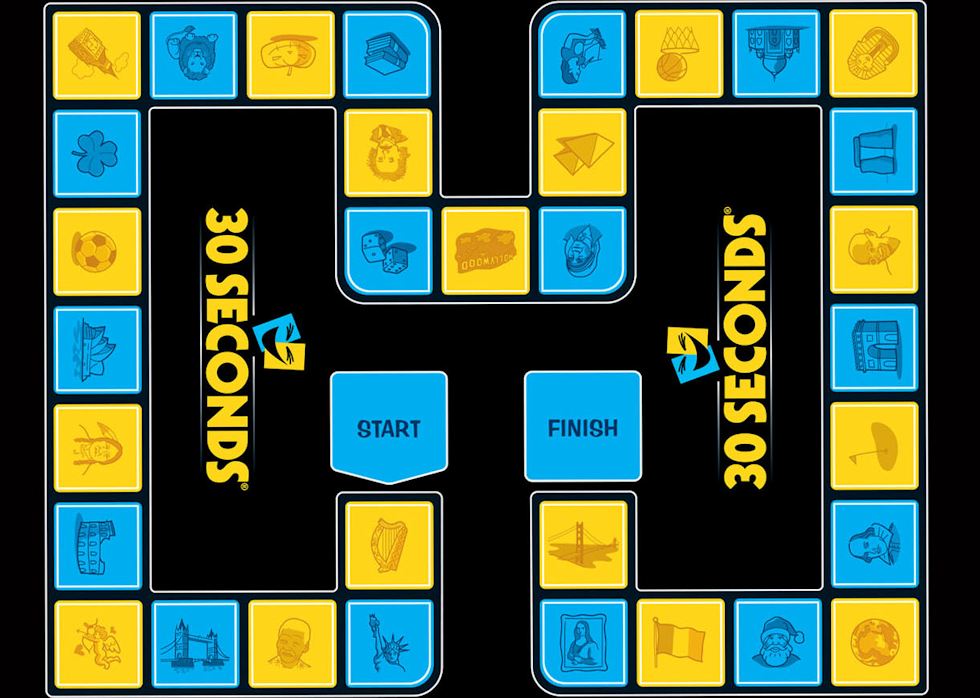
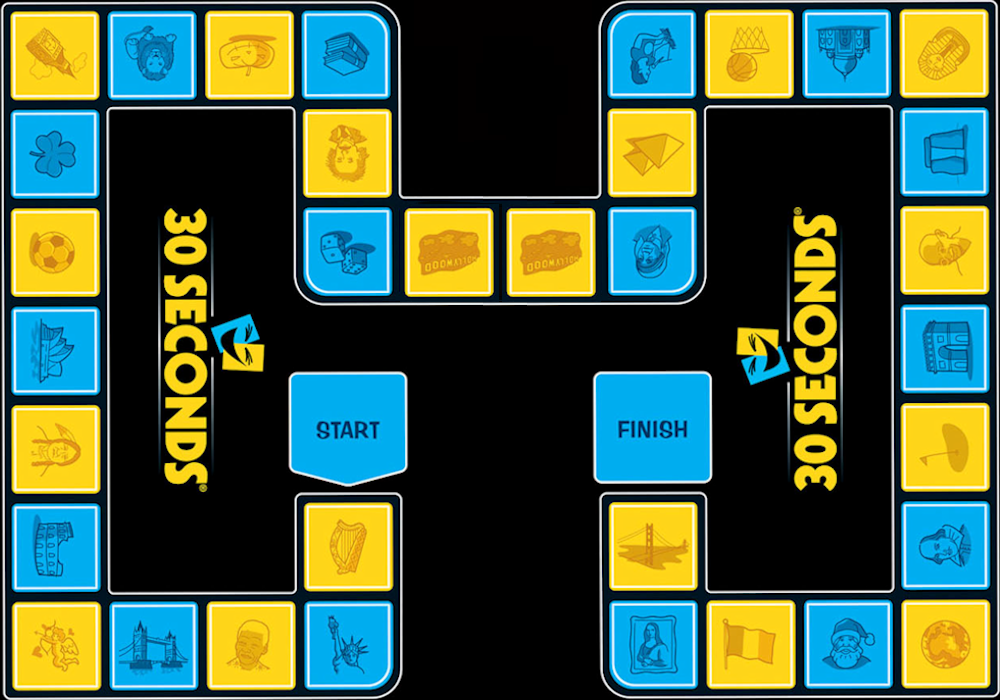
Setup CastReceiverManager

diff --git a/app.js b/app.js
@@ -1,6 +1,6 @@
 var TNSeconds = (function () {
     function TNSeconds() {
-        this.game = new Phaser.Game(1025, 873, Phaser.AUTO, 'content', { preload: this.preload, create: this.create });
+        this.game = new Phaser.Game(1250, 700, Phaser.AUTO, 'content', { preload: this.preload, create: this.create });
     }
     TNSeconds.prototype.preload = function () {
         this.game.load.image('logo', 'run.png');
@@ -8,6 +8,8 @@ var TNSeconds = (function () {
     TNSeconds.prototype.create = function () {
         var logo = this.game.add.sprite(this.game.world.centerX, this.game.world.centerY, 'logo');
         logo.anchor.setTo(0.5, 0.5);
+        this.game.stage.backgroundColor = '#000000';
+        this.game.scale.fullScreenScaleMode = Phaser.ScaleManager.EXACT_FIT;
         //logo.scale.setTo(0.2, 0.2);
     };
     return TNSeconds;

diff --git a/app.ts b/app.ts
@@ -2,8 +2,9 @@
 
     game: Phaser.Game;
 
+
     constructor() {
-        this.game = new Phaser.Game(1025, 873, Phaser.AUTO, 'content', { preload: this.preload, create: this.create });
+        this.game = new Phaser.Game(1250, 700, Phaser.AUTO, 'content', { preload: this.preload, create: this.create });
     }
 
     preload() {
@@ -13,6 +14,8 @@
     create() {
         var logo = this.game.add.sprite(this.game.world.centerX, this.game.world.centerY, 'logo');
         logo.anchor.setTo(0.5, 0.5);
+        this.game.stage.backgroundColor = '#000000' 
+        this.game.scale.fullScreenScaleMode = Phaser.ScaleManager.EXACT_FIT;
         //logo.scale.setTo(0.2, 0.2);
 
     }
@@ -20,4 +23,5 @@
 
 window.onload = () => {
     var game = new TNSeconds();
+
 };

diff --git a/index.html b/index.html
@@ -4,6 +4,7 @@
 <head>
     <meta charset="utf-8" />
     <title>TypeScript HTML App</title>
+    <script src="//www.gstatic.com/cast/sdk/libs/receiver/2.0.0/cast_receiver.js"></script>
     <link rel="stylesheet" href="app.css" type="text/css" />
     <script src="app.js"></script>
     <script src="phaser.js"></script>
@@ -11,5 +12,15 @@
 <body>
 
     <div id="content"></div>
+    
+    <script>
+        window.mediaElement = document.getElementById('content');
+        window.mediaManager = new cast.receiver.MediaManager(window.mediaElement);
+        window.castReceiverManager = cast.receiver.CastReceiverManager.getInstance();
+        window.castReceiverManager.start();
+    </script>
+
+    <div id="content"></div>
+
 </body>
 </html>
